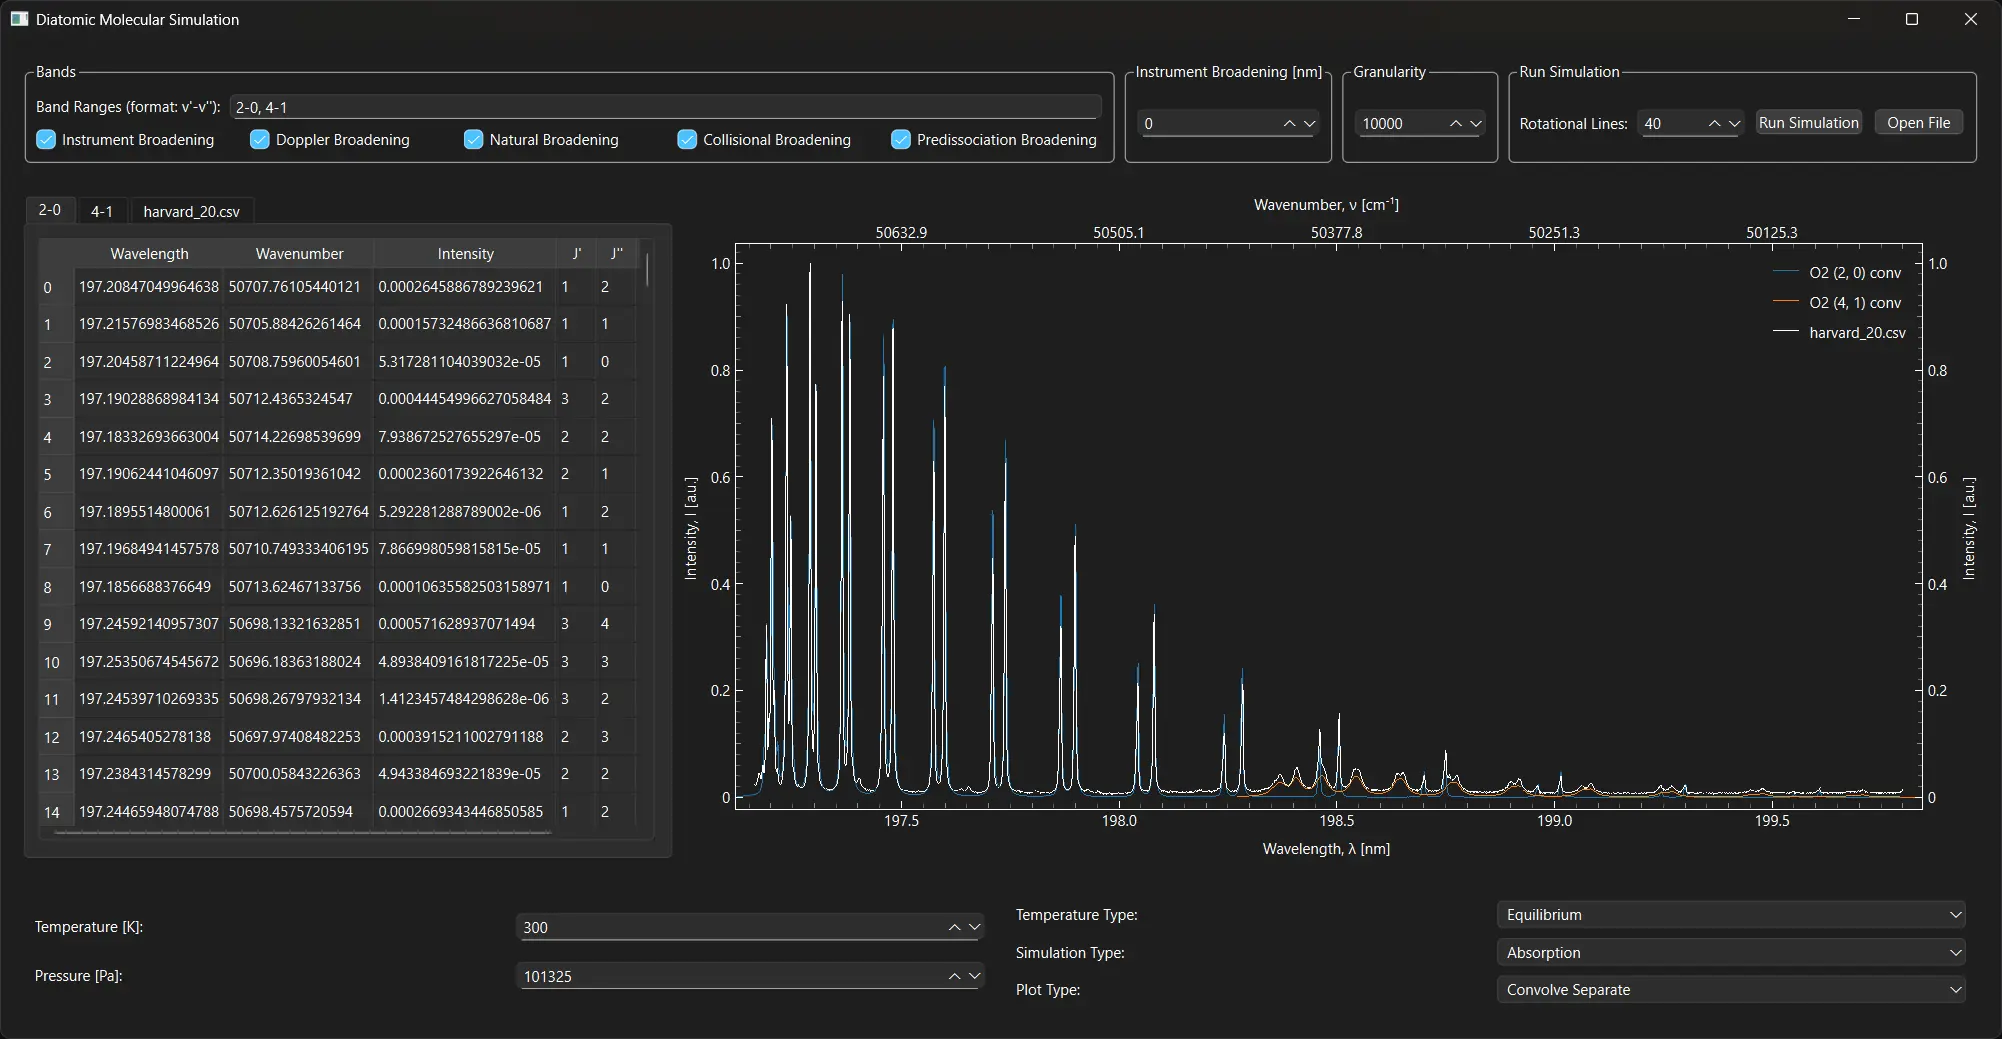
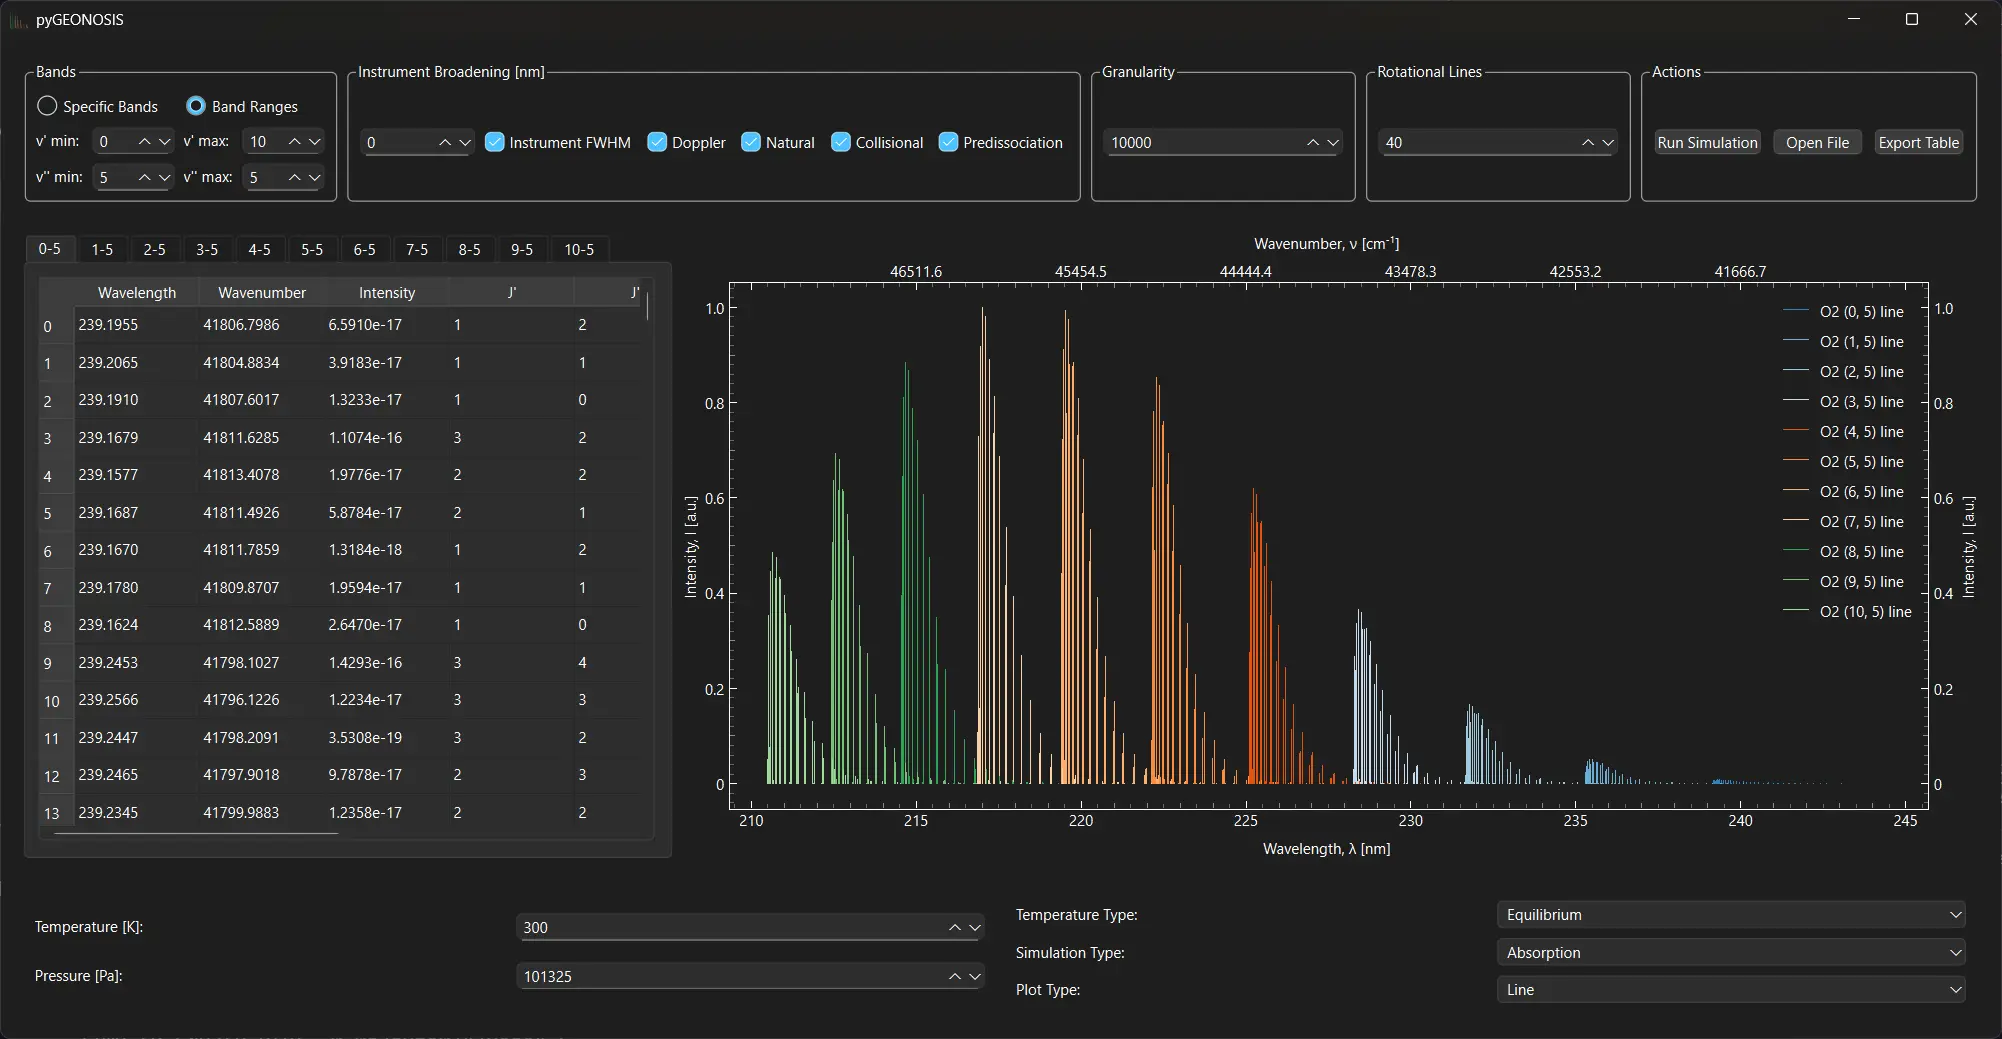
docs: update example image

diff --git a/README.md b/README.md
@@ -66,8 +66,8 @@ Four plot types are currently implemented:
 
 An equilibrium simulation of $\text{O}_2^{16}$ using the following parameters is shown below.
 
-- $(v', v'') = (2, 0)$ and $(4, 1)$
-- $N_\text{max} = 35$
+- $(v', v'') = (0, 5)$ through $(10, 5)$
+- $N_\text{max} = 40$
 - $T=300$ $\text{K}$
 - $p=101325$ $\text{Pa}$
 
